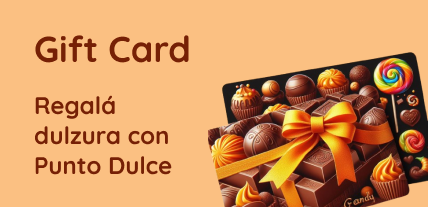
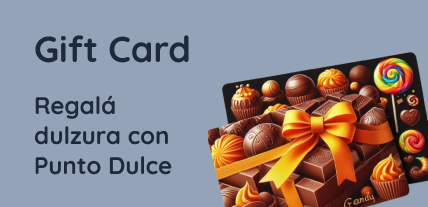
new colors to button and gift card

diff --git a/frontend/src/components/Button/Button.jsx b/frontend/src/components/Button/Button.jsx
@@ -1,9 +1,10 @@
 import styles from './Button.module.css'
+import gift from '../../../public/img/gift.svg'
 
 function Button({ text, icon, styleIcon, className  }) {
     return (
         <button type="submit" className={`${styles.buttonStyle} ${className || ''}`}>
-        <img src={icon} alt="Icon" className={styles.icon} style={styleIcon} />
+        <img src={gift} alt="Icon" className={styles.icon} style={styleIcon} />
         {text}
     </button>
     );

diff --git a/frontend/src/components/Button/Button.module.css b/frontend/src/components/Button/Button.module.css
@@ -17,14 +17,15 @@
 }
 .buttonIcon {
   padding: 0.2rem;
+ 
 
 }
 
 .buttonStyle {
   margin: 0.5rem;
-  border: #f77f00 solid 2px;
+  border: #6B185E solid 2px;
   background-color: transparent;
-  color: #f77f00;
+  color: #6B185E;
   font-weight: 600;
   border-radius: 0.5rem;
   display: flex;

diff --git a/frontend/src/components/GiftCard/GiftCard.jsx b/frontend/src/components/GiftCard/GiftCard.jsx
@@ -1,5 +1,5 @@
 import Button from "../Button/Button";
-import giftcard from "../../../public/img/giftcard.png";
+import giftcard from "../../../public/img/giftCard.png";
 import Link from "../../../public/img/link-button.png";
 
 import styles from "./GiftCard.module.css";

diff --git a/frontend/src/components/OtherBrands/OtherBrands.jsx b/frontend/src/components/OtherBrands/OtherBrands.jsx
@@ -5,7 +5,7 @@ const OtherBrands = () => {
     {
       id: 1,
       name: "flynpaf",
-      imageUrl: "../../../public/img/flypaf.png",
+      imageUrl: "../../../public/img/flynpaf.png",
     },
     {
       id: 2,
